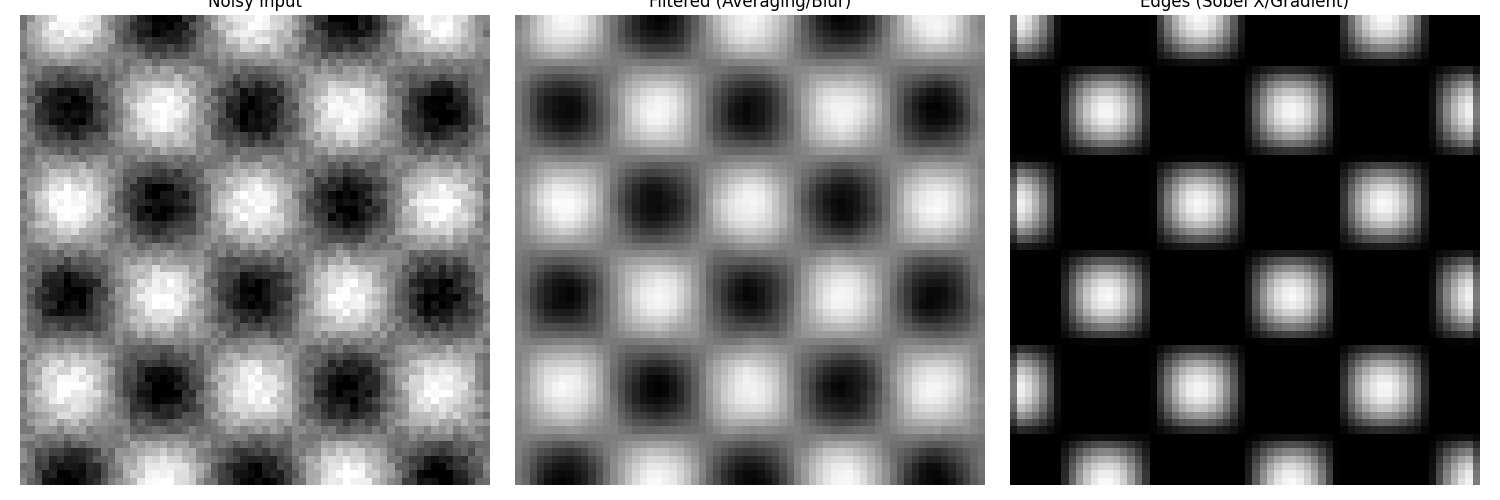
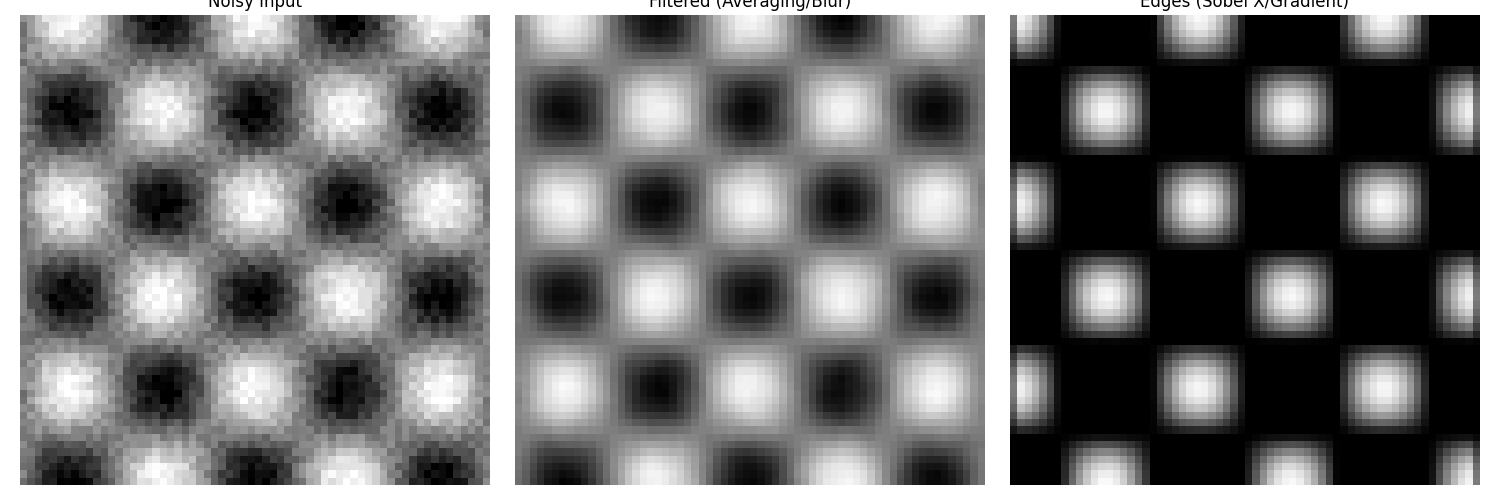
udpdate docs

diff --git a/docs/summary/digital image/digital image fundementals-basic mathematical.py b/docs/summary/digital image/digital image fundementals-basic mathematical.py
@@ -4,6 +4,8 @@ import matplotlib.pyplot as plt
 # --- 0. Setup: Create a simple synthetic image (a 2D discrete function) ---
 # Image dimensions: 64x64 pixels, 8-bit grayscale (values 0-255)
 SIZE = 64
+save_path='./docs/summary/digital image'
+
 # Create a base image with a diagonal gradient for visual interest
 x, y = np.meshgrid(np.linspace(0, 1, SIZE), np.linspace(0, 1, SIZE))
 base_image = (np.sin(x * np.pi * 5) * np.cos(y * np.pi * 5) + 1) / 2
@@ -16,7 +18,7 @@ noisy_image = np.clip(noisy_image, 0, 255).astype(np.uint8)
 print("Original Image Matrix Shape:", base_image.shape)
 
 # Helper function to display results
-def display_result(images, titles, save_path='./docs/summary/digital image'):
+def display_result(images, titles, save_path):
     """Displays images side-by-side and optionally saves them."""
     fig, axes = plt.subplots(1, len(images), figsize=(15, 5))
     if len(images) == 1:
@@ -55,7 +57,7 @@ difference_image = np.abs(base_image.astype(np.int16) - shifted_image.astype(np.
 display_result(
     [base_image, bright_image, difference_image],
     ['Original Image', f'Scaled (x{scale_factor})', 'Difference (Change Detected)'],
-    save_path='1_linear_algebra_results.png'
+    save_path='./docs/summary/digital image/1_linear_algebra_results.png'
 )
 
 
@@ -83,7 +85,7 @@ complement_A = 255 - mask_A
 display_result(
     [mask_A, mask_B, union_result, complement_A],
     ['Mask A', 'Mask B', 'Union (max(A, B))', 'Complement (NOT A)'],
-    save_path='2_set_logical_ops.png'
+    save_path='./docs/summary/digital image/2_set_logical_ops.png'
 )
 
 
@@ -140,7 +142,7 @@ edges_x = convolve_2d(base_image, sobel_x)
 display_result(
     [noisy_image, blurred_image, edges_x],
     ['Noisy Input', 'Filtered (Averaging/Blur)', 'Edges (Sobel X/Gradient)'],
-    save_path='3_convolution_calculus_results.png'
+    save_path='./docs/summary/digital image/3_convolution_calculus_results.png'
 )
 
 
@@ -174,7 +176,7 @@ plt.imshow(magnitude_spectrum, cmap='magma')
 plt.title('Frequency Domain (Log Magnitude Spectrum)')
 plt.axis('off')
 plt.tight_layout()
-plt.savefig('4_fourier_transform_results.png')
+plt.savefig('./docs/summary/digital image/4_fourier_transform_results.png')
 print("Saved visualization to: 4_fourier_transform_results.png")
 plt.close()
 
@@ -203,7 +205,7 @@ plt.xlabel('Pixel Intensity Value (0-255)')
 plt.ylabel('Number of Pixels (Frequency)')
 plt.legend()
 plt.grid(True, alpha=0.3)
-plt.savefig('5_histogram_statistics.png')
+plt.savefig('./docs/summary/digital image/5_histogram_statistics.png')
 print("Saved visualization to: 5_histogram_statistics.png")
 plt.close()
 
